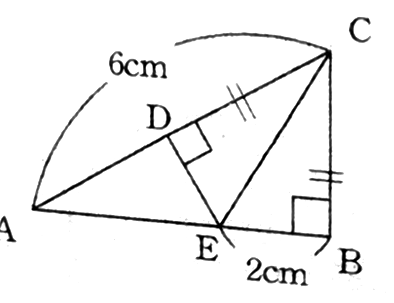
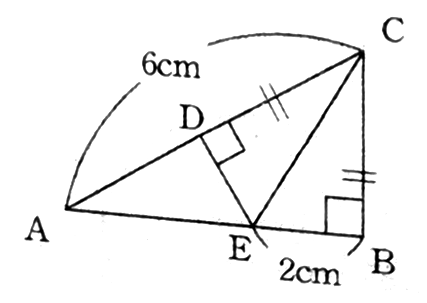
작업 중 파일 저장
Claude-Session: https://claude.ai/code/session_01WRC1DdU2HKjqLu2KwJtBYr

diff --git a/_시험지3종_만들기/학교시험/data_학남중_2.js b/_시험지3종_만들기/학교시험/data_학남중_2.js
@@ -4,7 +4,7 @@ const IMG = path.join(__dirname, '..', 'img_school', "\ud559\ub0a8\uc911_2");
 const META = {"year": 2026, "school": "학남중", "grade": "중2", "term": "2학기 중간", "subject": "수학", "title": "2026 학남중 2학년 2학기 중간", "units": "일차함수와 일차방정식의 관계, Ⅰ. 삼각형의 성질 (이등변삼각형·직각삼각형의 합동·외심·내심), Ⅱ. 사각형의 성질 (평행사변형·여러 가지 사각형)", "keyNote": "정답은 채수학에서 직접 풀어 확인"};
 const Q = [
 {"n": 1, "pt": "3", "type": "객", "ans": "⑤", "unit": "일차함수와 일차방정식", "sub": "좌표축에 평행한 직선의 방정식", "tp": "x축에 평행한 직선", "key": "$x$축에 평행 → $y=k$ 꼴", "lv": 1, "q": "점 $(4,\\,-6)$을 지나고 $x$축에 평행한 직선의 방정식을 $ax+by+c=0$이라 할 때, $a+b+c$의 값은? (단, $a,\\,b,\\,c$는 상수)", "sol": ["$x$축에 평행한 직선은 $y=($상수$)$ 꼴이다.", "점 $(4,\\,-6)$을 지나므로 $y=-6$, 즉 $y+6=0$", "$0\\cdot x+1\\cdot y+6=0$에서 $a=0,\\ b=1,\\ c=6$", "$a+b+c=7$"], "fin": "⑤", "ch": ["$3$", "$4$", "$5$", "$6$", "$7$"]},
-{"n": 2, "pt": "4", "type": "객", "ans": "③", "unit": "일차함수와 일차방정식", "sub": "일차방정식 ax+by+c=0의 그래프", "tp": "일차방정식의 그래프", "key": "$b=0$이면 $x=$상수 → $y$축에 평행(수직 아님)", "lv": 2, "q": "일차방정식 $ax+by+c=0$에 대한 설명으로 옳지 <u>않은</u> 것은? (단, $a,\\,b,\\,c$는 상수)", "sol": ["① $by=-ax-c$에서 $y=-\\dfrac{a}{b}x-\\dfrac{c}{b}$ (옳다)", "② $x=-\\dfrac{c}{a}$는 $x$ 하나에 $y$가 무수히 많으므로 함수가 아니다 (옳다)", "③ $x=-\\dfrac{c}{a}$는 $y$축에 평행, $x$축에 수직인 직선이다 (옳지 않다)", "④ $y=-\\dfrac{c}{b}$는 상수함수로 일차함수는 아니지만 함수이다 (옳다)", "⑤ $y$좌표가 $-\\dfrac{c}{b}$인 모든 점이 해이다 (옳다)"], "fin": "③", "ch": ["$a\\neq0,\\ b\\neq0$일 때, 일차함수 $y=-\\dfrac{a}{b}x-\\dfrac{c}{b}$와 일치한다.", "$a\\neq0,\\ b=0$일 때, 직선의 식 $x=-\\dfrac{c}{a}$는 함수가 아니다.", "$a\\neq0,\\ b=0$일 때, 일차방정식 $ax+by+c=0$은 $y$축에 수직인 직선이다.", "$a=0,\\ b\\neq0$일 때, 직선의 식 $y=-\\dfrac{c}{b}$는 일차함수는 아니지만<br>함수이다.", "$a=0,\\ b\\neq0$일 때, $y$좌표가 $-\\dfrac{c}{b}$인 모든 점이 일차방정식<br>$ax+by+c=0$의 해가 된다."]},
+{"n": 2, "pt": "4", "type": "객", "ans": "③", "unit": "일차함수와 일차방정식", "sub": "일차방정식 ax+by+c=0의 그래프", "tp": "일차방정식의 그래프", "key": "$b=0$이면 $x=$상수 → $y$축에 평행(수직 아님)", "lv": 2, "q": "일차방정식 $ax+by+c=0$에 대한 설명으로 옳지 <u>않은</u> 것은? (단, $a,\\,b,\\,c$는 상수)", "sol": ["① $by=-ax-c$에서 $y=-\\dfrac{a}{b}x-\\dfrac{c}{b}$ (옳다)", "② $x=-\\dfrac{c}{a}$는 $x$ 하나에 $y$가 무수히 많으므로 함수가 아니다 (옳다)", "③ $x=-\\dfrac{c}{a}$는 $y$축에 평행, $x$축에 수직인 직선이다 (옳지 않다)", "④ $y=-\\dfrac{c}{b}$는 상수함수로 일차함수는 아니지만 함수이다 (옳다)", "⑤ $y$좌표가 $-\\dfrac{c}{b}$인 모든 점이 해이다 (옳다)"], "fin": "③", "ch": ["$a\\neq0,\\ b\\neq0$일 때, 일차함수 $y=-\\dfrac{a}{b}x-\\dfrac{c}{b}$와 일치한다.", "$a\\neq0,\\ b=0$일 때, 직선의 식 $x=-\\dfrac{c}{a}$는 함수가 아니다.", "$a\\neq0,\\ b=0$일 때, 일차방정식 $ax+by+c=0$은<br>$y$축에 수직인 직선이다.", "$a=0,\\ b\\neq0$일 때, 직선의 식 $y=-\\dfrac{c}{b}$는 일차함수는 아니지만<br>함수이다.", "$a=0,\\ b\\neq0$일 때, $y$좌표가 $-\\dfrac{c}{b}$인 모든 점이 일차방정식<br>$ax+by+c=0$의 해가 된다."]},
 {"n": 3, "pt": "5", "type": "객", "ans": "④", "unit": "일차함수와 일차방정식", "sub": "직선으로 둘러싸인 도형의 넓이", "tp": "네 직선으로 둘러싸인 넓이", "key": "사다리꼴 – 윗변·아랫변을 교점의 $x$좌표로 구하기", "lv": 2, "q": "네 직선 $2x-y-5=0$, $y=4$, $x+2=0$, $3y+6=0$으로 둘러싸인 도형의 넓이는?", "sol": ["직선은 $y=2x-5$, $y=4$, $x=-2$, $y=-2$", "$y=4$일 때 $x=\\dfrac{9}{2}$, $y=-2$일 때 $x=\\dfrac{3}{2}$", "윗변 $\\dfrac{9}{2}-(-2)=\\dfrac{13}{2}$, 아랫변 $\\dfrac{3}{2}-(-2)=\\dfrac{7}{2}$, 높이 $4-(-2)=6$", "넓이 $=\\dfrac{1}{2}\\times\\left(\\dfrac{13}{2}+\\dfrac{7}{2}\\right)\\times6=30$"], "fin": "④", "ch": ["$24$", "$26$", "$28$", "$30$", "$32$"]},
 {"n": 4, "pt": "4", "type": "객", "ans": "⑤", "unit": "일차함수와 일차방정식", "sub": "연립방정식의 해가 없을 조건", "tp": "연립방정식의 해가 없을 조건", "key": "$\\dfrac{a}{5}=\\dfrac{4}{-2}\\neq\\dfrac{-6}{b}$", "lv": 2, "q": "연립방정식 $\\begin{cases} ax+4y=-6 \\\\ 5x-2y=b \\end{cases}$의 해가 없을 때, 상수 $a,\\,b$의 조건으로 옳은 것은?", "sol": ["해가 없으려면 두 직선이 평행해야 한다.", "$\\dfrac{a}{5}=\\dfrac{4}{-2}=-2$에서 $a=-10$", "$\\dfrac{-6}{b}\\neq-2$에서 $b\\neq3$"], "fin": "⑤", "ch": ["$a=10,\\ b=3$", "$a=10,\\ b\\neq3$", "$a\\neq-10,\\ b=3$", "$a\\neq-10,\\ b\\neq3$", "$a=-10,\\ b\\neq3$"]},
 {"n": 5, "pt": "3", "type": "객", "ans": "⑤", "unit": "삼각형의 성질", "sub": "이등변삼각형의 두 밑각", "tp": "이등변삼각형의 밑각", "key": "$\\overline{AB}=\\overline{AC}$ → $\\angle B=\\angle C$", "lv": 1, "q": "$\\triangle ABC$가 $\\overline{AB}=\\overline{AC}$인 이등변삼각형이 되기 위한 $x$의 값은?", "sol": ["$\\angle B=\\angle C$이므로 $2x-1=4x-25$", "$2x=24$, $x=12$"], "fin": "⑤", "ch": ["$4$", "$6$", "$8$", "$10$", "$12$"], "imgW": 40, "img": path.join(IMG, "q5.png")},
